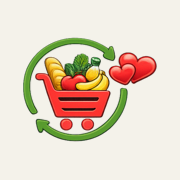
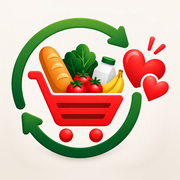
feat(beginscherm): het nieuwe app-icoon op het beginscherm
Het app-icoon (embleem op een crème tegel) wordt het icoon van CoupleCart
op het beginscherm van iPhone en Android. scripts/app-icons.py maakt de vier
iconen uit docs/logo/couplecart-app-icon.webp: de tegel loopt door tot de
randen, zonder schaduw en grijze achtergrond, want de telefoon rondt de
hoeken zelf af. Vervangt scripts/app-icons.swift, dat het embleem uit
favicon.png op crème zette.

diff --git a/scripts/app-icons.py b/scripts/app-icons.py
@@ -1,0 +1,119 @@
+"""
+Makes the home-screen icons from the app icon, docs/logo/couplecart-app-icon.webp: the emblem on a
+cream tile with rounded corners, which lies on a light background with a drop shadow.
+
+  python3 scripts/app-icons.py
+
+Needs Pillow and numpy. The phone rounds the corners itself and iOS paints transparent pixels black,
+so every icon is a full square of tile: its surface is continued up to the edges, without the
+background, the shadow and the tile's own rim. Writes:
+  public/apple-touch-icon.png          180 px, what iPhone and iPad put on the home screen
+  public/icons/icon-192.png, -512.png  the same picture, for the manifest
+  public/icons/icon-maskable-512.png   the emblem smaller, because Android may crop it to a circle
+"""
+import sys
+
+import numpy as np
+from PIL import Image, ImageFilter
+
+SOURCE = 'docs/logo/couplecart-app-icon.webp'
+# The tile in the 1254 px source, measured by hand: its box (left, top, right, bottom) and the
+# radius of its corners. Another picture needs new numbers.
+SOURCE_SIZE = (1254, 1254)
+TILE = (94, 94, 1158, 1140)
+RADIUS = 275
+# Near its edge the tile has a light rim at the top and darkens, most of all at the bottom. Up to
+# EDGE px inside the edge the fitted surface replaces it; over the next BLEND px the source takes
+# over gradually, so no line shows. The emblem always stays as it is (it keeps 48 px from the edge).
+EDGE = 24
+BLEND = 56
+# The surface is fitted on the tile from this far inside the edge, past the darker border.
+FIT_DEPTH = 60
+# Android keeps a maskable icon's middle circle of 80% at least; the emblem stays inside 76%.
+SAFE_RADIUS = 0.38
+PAD = 200
+
+source = Image.open(SOURCE).convert('RGB')
+if source.size != SOURCE_SIZE:
+    sys.exit(f'{SOURCE} is {source.size[0]} x {source.size[1]} px: measure TILE and RADIUS for it first')
+pixels = np.asarray(source, dtype=np.float64)
+height, width, _ = pixels.shape
+left, top, right, bottom = TILE
+cx, cy, hx, hy = (left + right) / 2, (top + bottom) / 2, (right - left) / 2, (bottom - top) / 2
+
+
+def depth_and_core(x, y):
+    """How far (x, y) lies inside the tile's edge (negative outside it, at most RADIUS), and the
+    nearest point of the rectangle that becomes the tile when its edge is pushed out by RADIUS."""
+    core_x = np.clip(x, left + RADIUS, right - RADIUS)
+    core_y = np.clip(y, top + RADIUS, bottom - RADIUS)
+    return RADIUS - np.hypot(x - core_x, y - core_y), core_x, core_y
+
+
+def surface_terms(x, y):
+    """A smooth curved surface in x and y (a polynomial of degree 3) for the tile's light and colour."""
+    u, v = (x - cx) / hx, (y - cy) / hy
+    return [u ** i * v ** j for i in range(4) for j in range(4 - i)]
+
+
+def surface_at(coefficients, x, y):
+    """The fitted surface, held at its value on the fitted area for points outside it."""
+    depth, core_x, core_y = depth_and_core(x, y)
+    scale = np.where(depth < FIT_DEPTH, (RADIUS - FIT_DEPTH) / np.maximum(RADIUS - depth, 1e-9), 1)
+    x, y = core_x + (x - core_x) * scale, core_y + (y - core_y) * scale
+    result = np.zeros(x.shape + (3,))
+    for term, coefficient in zip(surface_terms(x, y), coefficients):
+        result += term[..., None] * coefficient
+    return result
+
+
+ys, xs = np.mgrid[0:height, 0:width].astype(np.float64)
+depth, _, _ = depth_and_core(xs, ys)
+
+# Fit the surface on the tile's cream, leaving out the emblem: start from all light, nearly grey
+# pixels and drop whatever lies more than 6 off the fit.
+cream = (depth >= FIT_DEPTH) & (pixels.min(axis=2) > 190) & (np.ptp(pixels, axis=2) < 32)
+samples = cream
+for _ in range(4):
+    sample_ys, sample_xs = np.nonzero(samples[::2, ::2])
+    sample_xs, sample_ys = sample_xs * 2.0, sample_ys * 2.0
+    terms = np.stack(surface_terms(sample_xs, sample_ys), axis=1)
+    coefficients = np.linalg.lstsq(terms, pixels[sample_ys.astype(int), sample_xs.astype(int)], rcond=None)[0]
+    surface = surface_at(coefficients, xs, ys)
+    off = np.abs(pixels - surface).max(axis=2)
+    samples = cream & (off < 6)
+print(f'surface fitted on {samples.sum()} px, {off[samples].mean():.1f} off on average')
+
+# The emblem: everything clearly off the surface, away from the rim. It is always kept as it is.
+emblem = (off > 12) & (depth > 40)
+emblem_ys, emblem_xs = np.nonzero(emblem)
+centre_x = (emblem_xs.min() + emblem_xs.max()) / 2
+centre_y = (emblem_ys.min() + emblem_ys.max()) / 2
+reach = np.hypot(emblem_xs - centre_x, emblem_ys - centre_y).max()
+print(f'emblem {emblem_xs.min()}-{emblem_xs.max()} x {emblem_ys.min()}-{emblem_ys.max()}, '
+      f'{depth[emblem].min():.0f} px from the edge at least, reaches {reach:.0f} px from its centre')
+emblem = Image.fromarray(emblem.astype(np.uint8) * 255).filter(ImageFilter.MaxFilter(9)).filter(ImageFilter.GaussianBlur(3))
+blend = np.clip((depth - EDGE) / BLEND, 0, 1)
+keep = np.maximum(blend * blend * (3 - 2 * blend), np.asarray(emblem, dtype=np.float64) / 255)
+
+# The tile, continued for PAD px on every side, so a crop may reach past the source.
+canvas_ys, canvas_xs = np.mgrid[-PAD:height + PAD, -PAD:width + PAD].astype(np.float64)
+canvas = surface_at(coefficients, canvas_xs, canvas_ys)
+inside = canvas[PAD:PAD + height, PAD:PAD + width]
+inside[:] = keep[..., None] * pixels + (1 - keep[..., None]) * inside
+canvas = Image.fromarray(np.clip(np.rint(canvas), 0, 255).astype(np.uint8))
+
+
+def write(path, size, side):
+    """A square of `side` source pixels round the emblem's centre, as a size × size PNG."""
+    x, y = centre_x + PAD - side / 2, centre_y + PAD - side / 2
+    canvas.resize((size, size), Image.LANCZOS, box=(x, y, x + side, y + side)).save(path, optimize=True)
+    print(f'{path} {size} x {size}')
+
+
+# The tile's own size: the emblem fills the icon as it fills the tile.
+tile_side = max(right - left, bottom - top)
+write('public/apple-touch-icon.png', 180, tile_side)
+write('public/icons/icon-192.png', 192, tile_side)
+write('public/icons/icon-512.png', 512, tile_side)
+write('public/icons/icon-maskable-512.png', 512, reach / SAFE_RADIUS)
